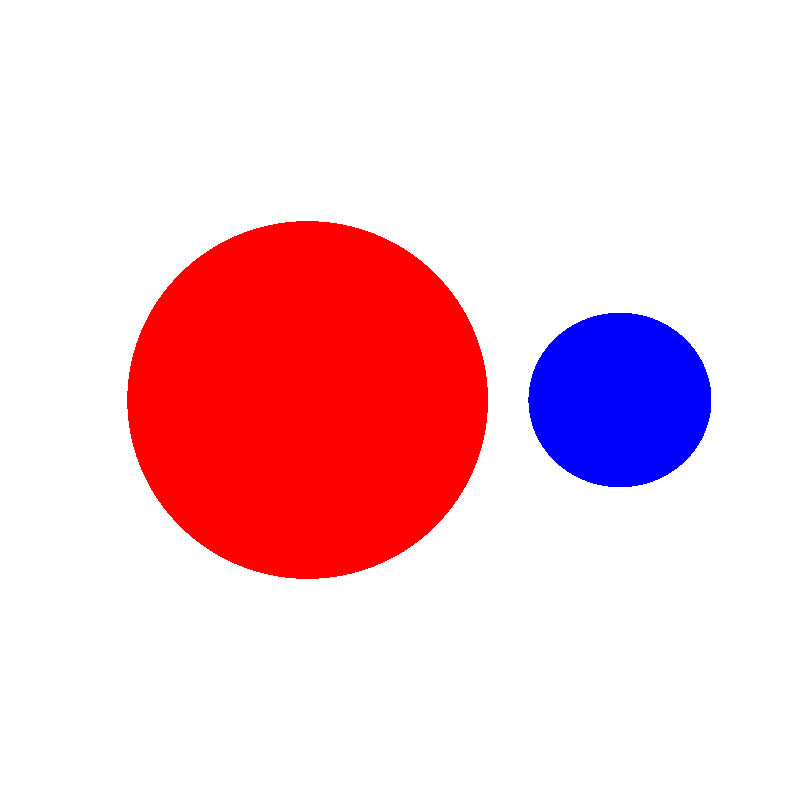
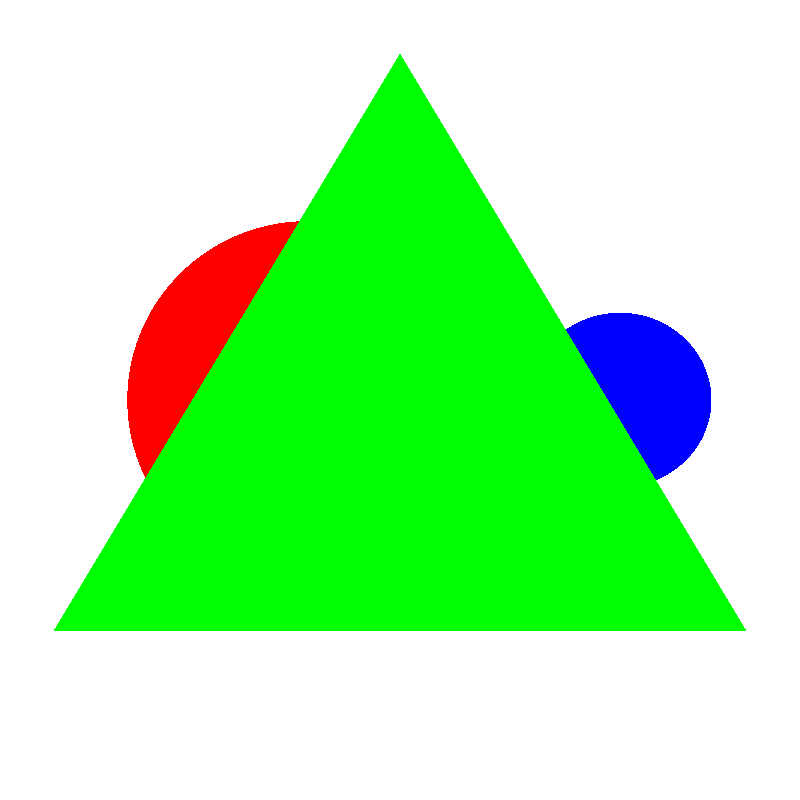
finish v02 version, now it renders triangles with barycentric coordinates

diff --git a/src/up/raytracer/scene/Triangle.java b/src/up/raytracer/scene/Triangle.java
@@ -1,0 +1,52 @@
+package up.raytracer.scene;
+
+import up.raytracer.core.Intersection;
+import up.raytracer.core.Ray;
+import up.raytracer.core.Vector3D;
+
+import java.awt.Color;
+
+// a triangle defined by three vertices, using the Moller-Trumbore intersection algorithm
+public class Triangle extends Object3D {
+
+    // used to avoid division by zero and floating point noise
+    private static final double EPSILON = 1e-8;
+
+    private final Vector3D v0, v1, v2;
+
+    public Triangle(Vector3D v0, Vector3D v1, Vector3D v2, Color color) {
+        super(v0, color);
+        this.v0 = v0;
+        this.v1 = v1;
+        this.v2 = v2;
+    }
+
+    // Moller-Trumbore: solves where the ray meets the plane of the triangle,
+    // then checks if that point is actually inside the triangle using barycentric coordinates (u, v)
+    @Override
+    public Intersection calculateIntersection(Ray ray) {
+        Vector3D edge1 = v1.subtract(v0);
+        Vector3D edge2 = v2.subtract(v0);
+
+        Vector3D p   = ray.getDirection().cross(edge1);
+        double   det = edge2.dot(p);
+
+        // ray is parallel to the triangle, no intersection
+        if (Math.abs(det) < EPSILON) return null;
+
+        double   invDet = 1.0 / det;
+        Vector3D tvec   = ray.getOrigin().subtract(v0);
+
+        double u = invDet * tvec.dot(p);
+        if (u < 0 || u > 1) return null;
+
+        Vector3D q = tvec.cross(edge2);
+        double   v = invDet * ray.getDirection().dot(q);
+        if (v < 0 || (u + v) > (1.0 + EPSILON)) return null;
+
+        double t = invDet * q.dot(edge1);
+        if (t < EPSILON) return null; // intersection is behind the ray origin
+
+        return new Intersection(ray.at(t), t, this);
+    }
+}

diff --git a/src/up/raytracer/camera/Camera.java b/src/up/raytracer/camera/Camera.java
@@ -9,13 +9,17 @@ public class Camera {
     private final Vector3D position;
     private final int width;
     private final int height;
-    private final double fov; // field of view in degrees
+    private final double fov;
+    private final double near; // minimum distance to consider a hit
+    private final double far;  // maximum distance to consider a hit
 
-    public Camera(Vector3D position, int width, int height, double fov) {
+    public Camera(Vector3D position, int width, int height, double fov, double near, double far) {
         this.position = position;
         this.width    = width;
         this.height   = height;
         this.fov      = fov;
+        this.near     = near;
+        this.far      = far;
     }
 
     // maps a pixel to a ray in world space using perspective projection
@@ -30,15 +34,9 @@ public class Camera {
         return new Ray(position, new Vector3D(x, y, 1.0));
     }
 
-    public Vector3D getPosition() {
-        return position;
-    }
-
-    public int getWidth() {
-        return width;
-    }
-
-    public int getHeight() {
-        return height;
-    }
+    public Vector3D getPosition() { return position; }
+    public int getWidth()         { return width; }
+    public int getHeight()        { return height; }
+    public double getNear()       { return near; }
+    public double getFar()        { return far; }
 }

diff --git a/src/up/raytracer/render/Raytracer.java b/src/up/raytracer/render/Raytracer.java
@@ -11,7 +11,7 @@ import java.awt.image.BufferedImage;
 import java.io.File;
 import java.io.IOException;
 
-//shoots rays through every pixel and paints the result into an image
+// shoots rays through every pixel and paints the result into an image
 public class Raytracer {
 
     private final Scene scene;
@@ -34,13 +34,20 @@ public class Raytracer {
         return image;
     }
 
-    //returns the color of whatever the ray hits first, or the background color
+    // returns the color of the closest object the ray hits within [near, far],
+    // or the background color if nothing is hit
     private Color trace(Ray ray) {
+        double near = scene.getCamera().getNear();
+        double far  = scene.getCamera().getFar();
         Intersection closest = null;
 
         for (Object3D obj : scene.getObjects()) {
             Intersection hit = obj.calculateIntersection(ray);
-            if (hit != null && (closest == null || hit.getDistance() < closest.getDistance())) {
+
+            // skip hits outside the clipping range
+            if (hit == null || hit.getDistance() < near || hit.getDistance() > far) continue;
+
+            if (closest == null || hit.getDistance() < closest.getDistance()) {
                 closest = hit;
             }
         }

diff --git a/src/up/raytracer/Main.java b/src/up/raytracer/Main.java
@@ -5,6 +5,7 @@ import up.raytracer.core.Vector3D;
 import up.raytracer.render.Raytracer;
 import up.raytracer.scene.Scene;
 import up.raytracer.scene.Sphere;
+import up.raytracer.scene.Triangle;
 
 import java.awt.Color;
 import java.io.IOException;
@@ -12,11 +13,19 @@ import java.io.IOException;
 public class Main {
 
     public static void main(String[] args) throws IOException {
-        Camera camera = new Camera(new Vector3D(0, 0, -1), 800, 800, 60);
+        // near = 0.1 avoids self-intersections, far = 1000 sets the visible range
+        Camera camera = new Camera(new Vector3D(0, 0, -1), 800, 800, 60, 0.1, 1000.0);
         Scene  scene  = new Scene(camera, Color.WHITE);
 
         scene.addObject(new Sphere(new Vector3D(-0.5, 0, 3), 1.0, Color.RED));
         scene.addObject(new Sphere(new Vector3D(1.25, 0, 3), 0.5, Color.BLUE));
+
+        scene.addObject(new Triangle(
+            new Vector3D( 0.0,  1.5, 2),
+            new Vector3D(-1.5, -1.0, 2),
+            new Vector3D( 1.5, -1.0, 2),
+            Color.GREEN
+        ));
 
         Raytracer raytracer = new Raytracer(scene);
         raytracer.saveImage(raytracer.render(), "output.png");

diff --git a/src/up/raytracer/core/Vector3D.java b/src/up/raytracer/core/Vector3D.java
@@ -23,9 +23,16 @@ public class Vector3D {
         return new Vector3D(x * s, y * s, z * s);
     }
 
-    //dot product
     public double dot(Vector3D v) {
         return x * v.x + y * v.y + z * v.z;
+    }
+
+    public Vector3D cross(Vector3D v) {
+        return new Vector3D(
+            y * v.z - z * v.y,
+            z * v.x - x * v.z,
+            x * v.y - y * v.x
+        );
     }
 
     public double magnitude() {
